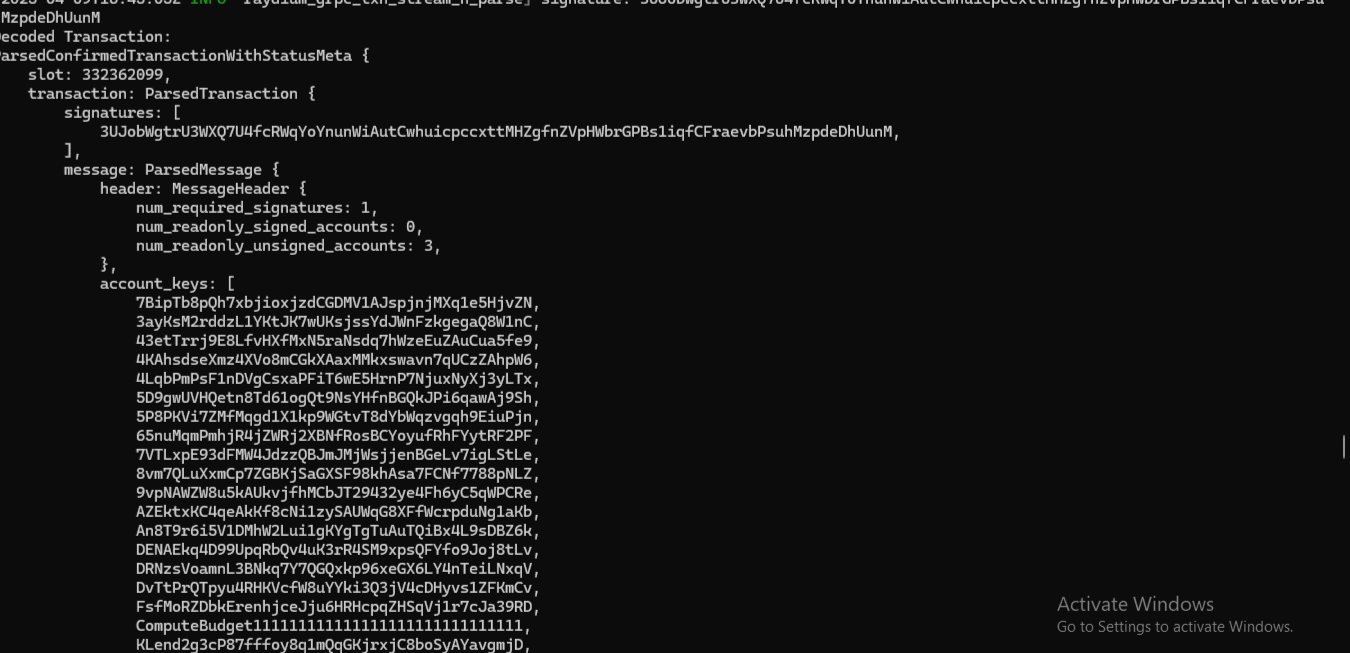
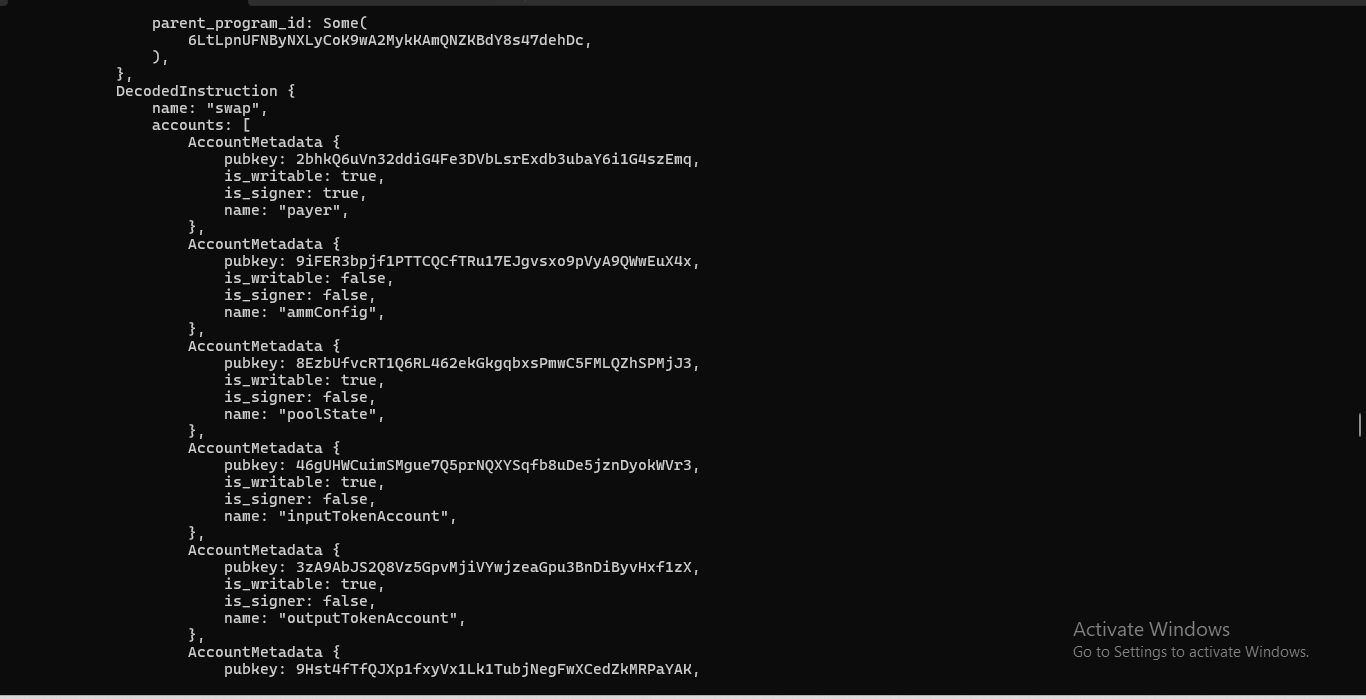
Raydium Clmm Rust Update

Changed region(s): [[0.0, 0.0, 1.0, 1.0], [0.9956, 0.6738, 1.0, 0.7044], [0.9956, 0.5819, 1.0, 0.6126]]

diff --git a/Raydium/Rust/stream_and_parse_raydium_clmm_transactions/README.md b/Raydium/Rust/stream_and_parse_raydium_clmm_transactions/README.md
@@ -10,7 +10,7 @@ This solution is ideal for developers and teams looking to build scalable DeFi t
 $ cargo run -- --endpoint <endpoint> --x-token <token>
 ```
 
-![screenshot](assets/usage__screenshot.PNG?raw=true "Screenshot")
+![screenshot](assets/usage__screenshot.png?raw=true "Screenshot")
 
 ## Notes
 
